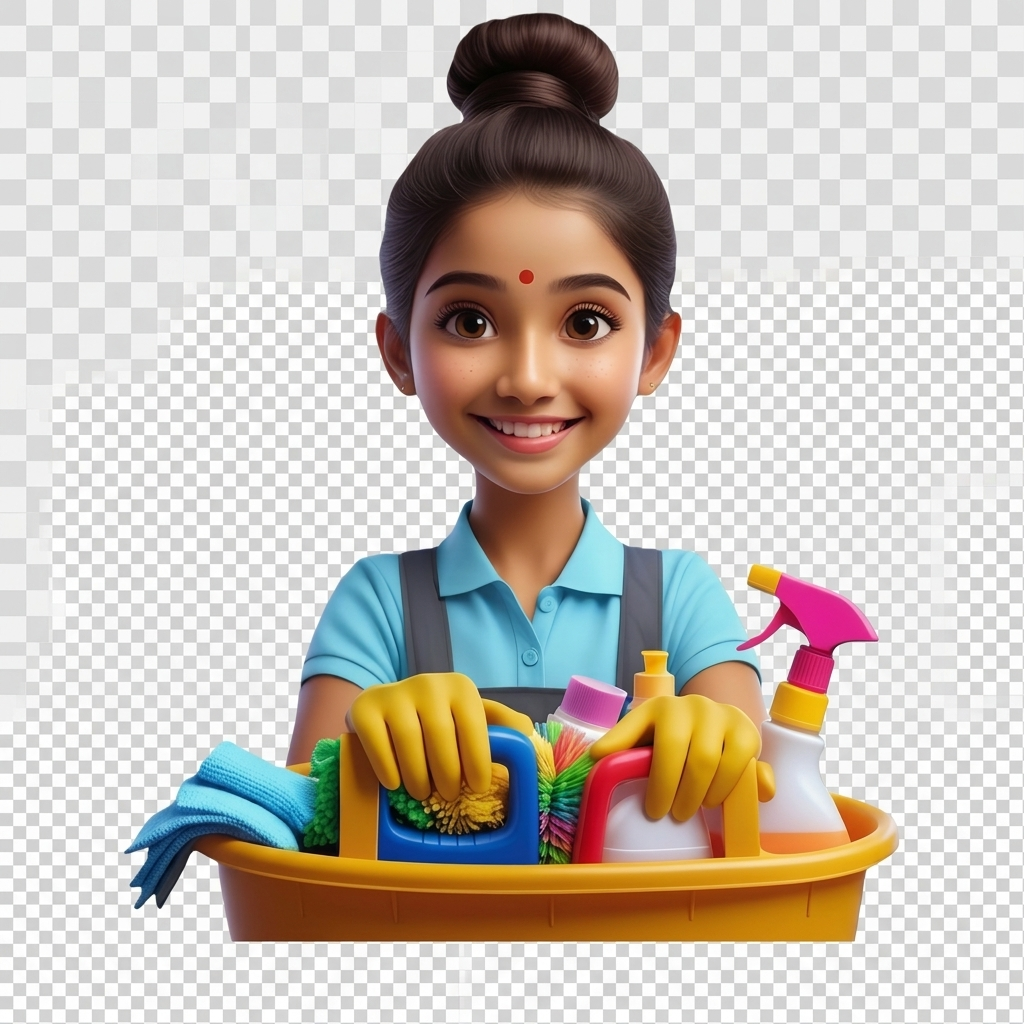
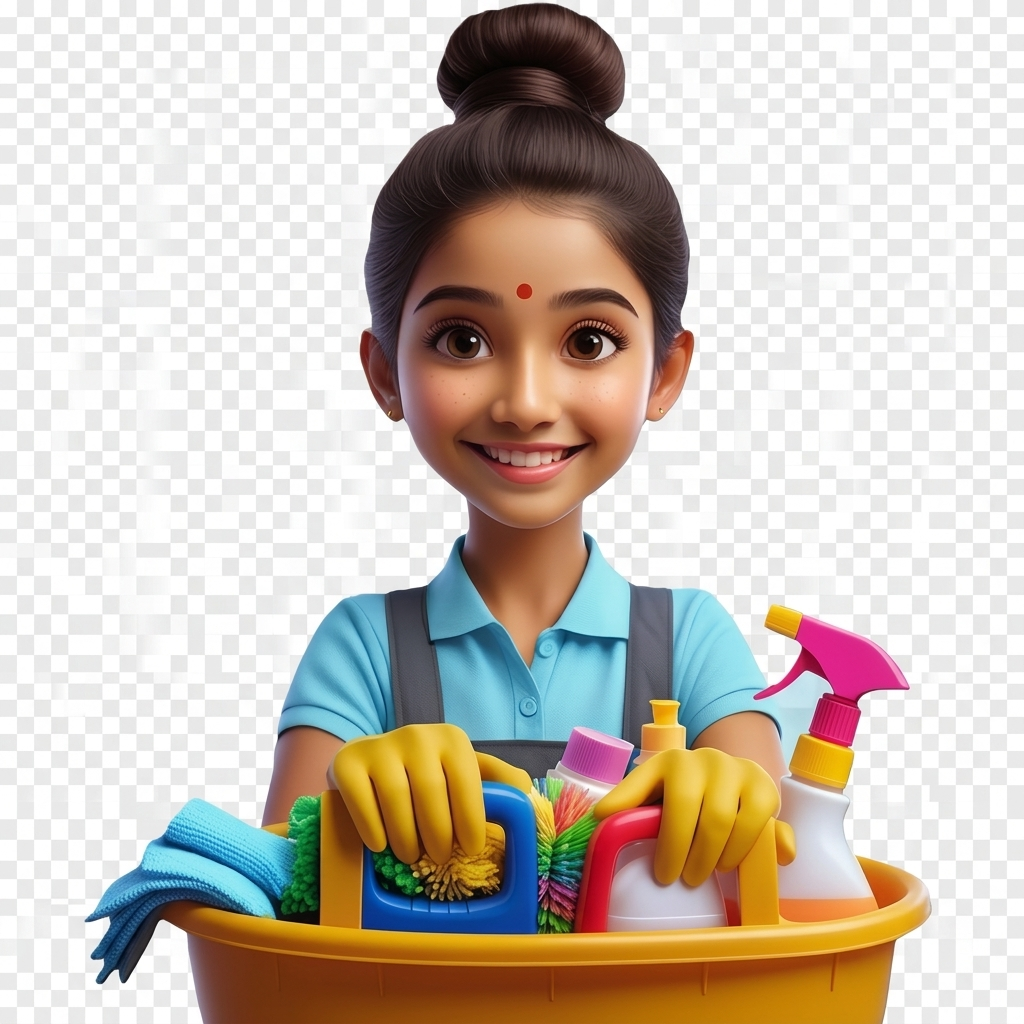
UI: fixed mascot transparency and updated badge niche wording

diff --git a/components/Hero.tsx b/components/Hero.tsx
@@ -210,8 +210,8 @@ export default function Hero() {
                       🏅
                     </div>
                     <div>
-                      <p className="text-white text-[11px] font-bold leading-tight">ISO Certified</p>
-                      <p className="text-[#A8DADC] text-[9px] font-medium">9001:2015 Quality</p>
+                      <p className="text-white text-[11px] font-bold leading-tight">Premium Formula</p>
+                      <p className="text-[#A8DADC] text-[9px] font-medium">Export Quality</p>
                     </div>
                   </div>
                 </div>
